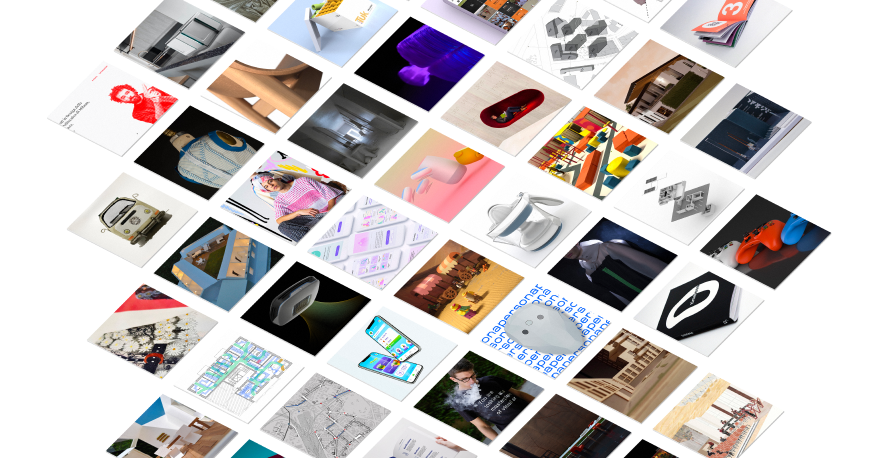
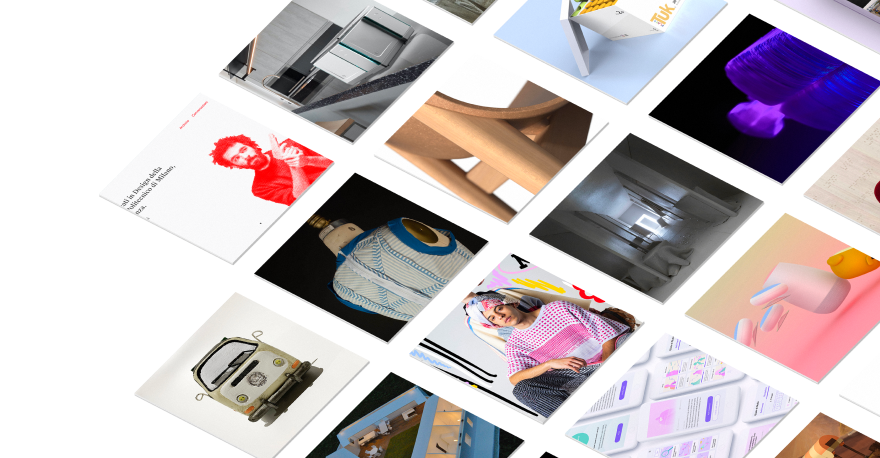
update_2 11/01/22 Project cards compiled

diff --git a/components/layout/GridNew.vue b/components/layout/GridNew.vue
@@ -18,6 +18,21 @@
     <b-col cols="12" md="6" lg="4" class='prova'>
       <LayoutCardNew v-bind='projects.Persona'/>
     </b-col>
+    <b-col cols="12" md="6" lg="4" class='prova'>
+      <LayoutCardNew v-bind='projects.MagModa'/>
+    </b-col>
+    <b-col cols="12" md="6" lg="4" class='prova'>
+      <LayoutCardNew v-bind='projects.ArmaniSilos'/>
+    </b-col>
+    <b-col cols="12" md="6" lg="4" class='prova'>
+      <LayoutCardNew v-bind='projects.Radiomarelli'/>
+    </b-col>
+    <b-col cols="12" md="6" lg="4" class='prova'>
+      <LayoutCardNew v-bind='projects.AlbiIllustrati'/>
+    </b-col>
+    <b-col cols="12" md="6" lg="4" class='prova'>
+      <LayoutCardNew v-bind='projects.PoliCatto'/>
+    </b-col>
     </div>
 </template>
 
@@ -65,8 +80,43 @@ export default {
         Persona: {
           title: 'Persona',
           thumbnail: require('~/assets/Persona_thumbnail.png'),
-          bio: 'A speculative narration on the topic of the mask',
+          bio: 'A speculative narration about interpersonal relationship possible futures in our daily life',
           class: 'bgcol6',
+          to: "about"
+        },
+        MagModa: {
+          title: 'Mag Moda: a SME digital transformation',
+          thumbnail: require('~/assets/Placeholder_thumbnail.png'),
+          bio: 'A speculative narration about interpersonal relationship possible futures in our daily life',
+          class: 'bgcol7',
+          to: "about"
+        },
+        ArmaniSilos: {
+          title: 'Armani Silos',
+          thumbnail: require('~/assets/Placeholder_thumbnail.png'),
+          bio: 'A speculative narration about interpersonal relationship possible futures in our daily life',
+          class: 'bgcol7',
+          to: "about"
+        },
+        Radiomarelli: {
+          title: 'Radiomarelli',
+          thumbnail: require('~/assets/Placeholder_thumbnail.png'),
+          bio: 'A speculative narration about interpersonal relationship possible futures in our daily life',
+          class: 'bgcol7',
+          to: "about"
+        },
+        AlbiIllustrati: {
+          title: 'Albi Illustrati',
+          thumbnail: require('~/assets/Placeholder_thumbnail.png'),
+          bio: 'A speculative narration about interpersonal relationship possible futures in our daily life',
+          class: 'bgcol7',
+          to: "about"
+        },
+        PoliCatto: {
+          title: 'Poli - Catto',
+          thumbnail: require('~/assets/Placeholder_thumbnail.png'),
+          bio: 'A speculative narration about interpersonal relationship possible futures in our daily life',
+          class: 'bgcol7',
           to: "about"
         },
       },
@@ -99,6 +149,14 @@ export default {
 
 .bgcol5 {
   --color-secondary: #FAFAFA;
+}
+
+.bgcol6 {
+  --color-secondary: #ebedec;
+}
+
+.bgcol7 {
+  --color-secondary: #c9c9c9;
 }
 
 </style>

diff --git a/components/layout/NavbarHome.vue b/components/layout/NavbarHome.vue
@@ -1,7 +1,7 @@
 <template>
   <div class='row row-navbar justify-content-between align-items-center mx-lg-3 mx-sm-1'>
     <div class='col-6'>
-      <b-link to="index">
+      <b-link to="/">
 <!--        <button class="btn btn-outline-primary">Davide Zoppi</button>-->
         <b-button variant="outline-primary">Hi! I'm Davide</b-button>
       </b-link>
@@ -29,7 +29,7 @@ export default {
   border-radius: 30px;
   font-family: 'AkkuratLL-Bold';
   font-size: 16px;
-  border: 1px solid #000000;
+  border: 2px solid #000000;
 }
 
 .btn-primary:hover {
@@ -39,13 +39,13 @@ export default {
   border-radius: 30px;
   font-family: 'AkkuratLL-Bold';
   font-size: 16px;
-  border: 1px solid #000000;
+  border: 2px solid #000000;
 }
 
 .btn-outline-primary {
   opacity: 50%;
   width: 170px;
-  border: 1px solid #000000;
+  border: 2px solid #000000;
   color: #000000;
   border-radius: 30px;
   font-family: 'AkkuratLL-Bold';
@@ -55,7 +55,7 @@ export default {
 .btn-outline-primary:hover {
   background-color: black;
   width: 170px;
-  border: 1px solid #000000;
+  border: 2px solid #000000;
   color: white;
   border-radius: 30px;
   font-family: 'AkkuratLL-Bold';

diff --git a/layouts/default.vue b/layouts/default.vue
@@ -24,13 +24,13 @@ export default {
 <style>
 
   body {
-    background-color: #F6F2F2;
+    background-color: #ECE7E3;
   }
 
 
   .row-navbar {
     height: 60px;
-    background-color: #F5F3F1;
+    background-color: #ECE7E3;
   }
 
   .row-herosection {
@@ -49,7 +49,7 @@ export default {
   }
 
   .row-progetti {
-    height: 250vh;
+    padding-bottom: 100px;
     background-color: white;
     border-top-left-radius: 60px;
     border-top-right-radius: 60px;
@@ -126,12 +126,13 @@ export default {
     line-height: 22px;
     margin-top: 25px;
     margin-bottom: 50px;
+    color: black;
   }
 
   .CardTitle {
     font-family: 'AkkuratLL-Bold';
     margin-top: 20px;
-    font-size: 22px;
+    font-size: 20px;
     line-height: 22px;
     color: black;
   }
@@ -143,7 +144,7 @@ export default {
 
   .CardText {
     font-family: 'AkkuratLL-Light';
-    font-size: 20px;
+    font-size: 18px;
     line-height: 22px;
     margin-top: 10px;
     color: #808080;

diff --git a/components/layout/Footer.vue b/components/layout/Footer.vue
@@ -7,19 +7,19 @@
         <img src = "~/assets/Pure_arrow.svg" alt="GoTo"/>
       </div>
     <div class='col-2 col-footer'>
-      <div class='ReadableText'>
+      <a href="https://www.linkedin.com/in/davide-zoppi-396462209/" class='no-underline'> <div class='ReadableText'>
         LinkedIn
-      </div>
+      </div> </a>
     </div>
     <div class='col-2 col-footer'>
-      <div class='ReadableText'>
+      <a href="https://www.instagram.com/dazonnnn/" class='no-underline'> <div class='ReadableText'>
         Instagram
-      </div>
+      </div> </a>
     </div>
     <div class='col-2 col-footer'>
-      <div class='ReadableText'>
+      <a href="https://t.me/dazonnnnn" class='no-underline'> <div class='ReadableText'>
         Telegram
-      </div>
+      </div> </a>
     </div>
     <div class='col-2 col-footer'>
       <div class='ReadableText'>

diff --git a/components/layout/NavbarAbout.vue b/components/layout/NavbarAbout.vue
@@ -1,7 +1,7 @@
 <template>
   <div class='row row-navbar justify-content-between align-items-center mx-3'>
     <div class='col-6'>
-      <b-link to="index">
+      <b-link to="/">
         <button class="btn btn-primary-about">Hi! I'm Davide</button>
       </b-link>
     </div>

diff --git a/components/layout/CardNew.vue b/components/layout/CardNew.vue
@@ -46,7 +46,7 @@ export default {
   border-radius: 35px;
   position: relative;
   overflow: hidden;
-  border: 1px solid #000000;
+  /*border: 1px solid #FFFFFF;*/
   box-shadow:0px 0px 0px 2px black inset;
 }
 

diff --git a/pages/index.vue b/pages/index.vue
@@ -34,7 +34,7 @@
       <LayoutGridNew />
     </div>
 
-<!--    <LayoutFooter />-->
+    <LayoutFooter />
 
   </div>
 </template>

diff --git a/components/layout/Projects.vue b/components/layout/Projects.vue
@@ -71,6 +71,7 @@ export default {
 
 .no-underline:hover {
   text-decoration: none;
+  color: black;
 }
 
 .card_image_1 {
